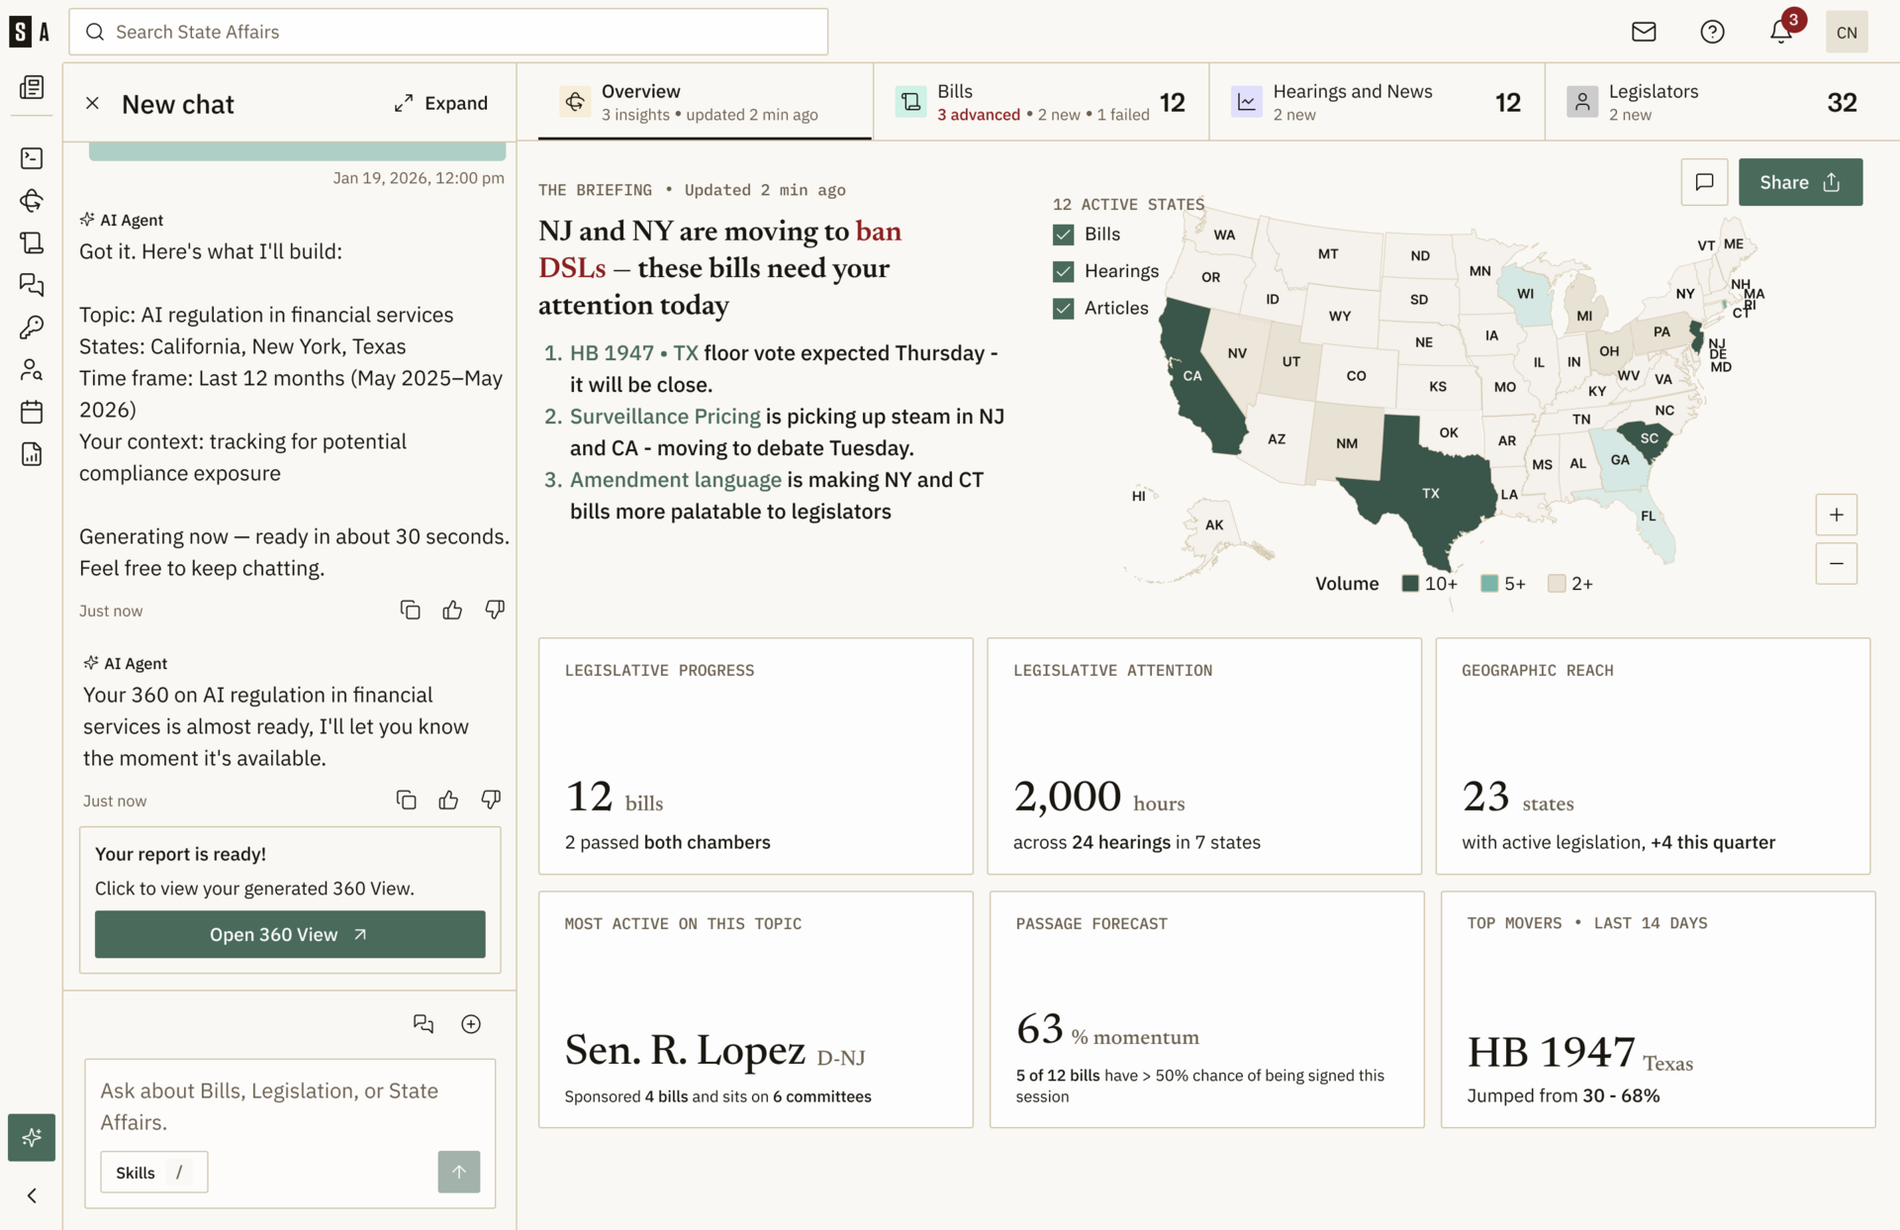
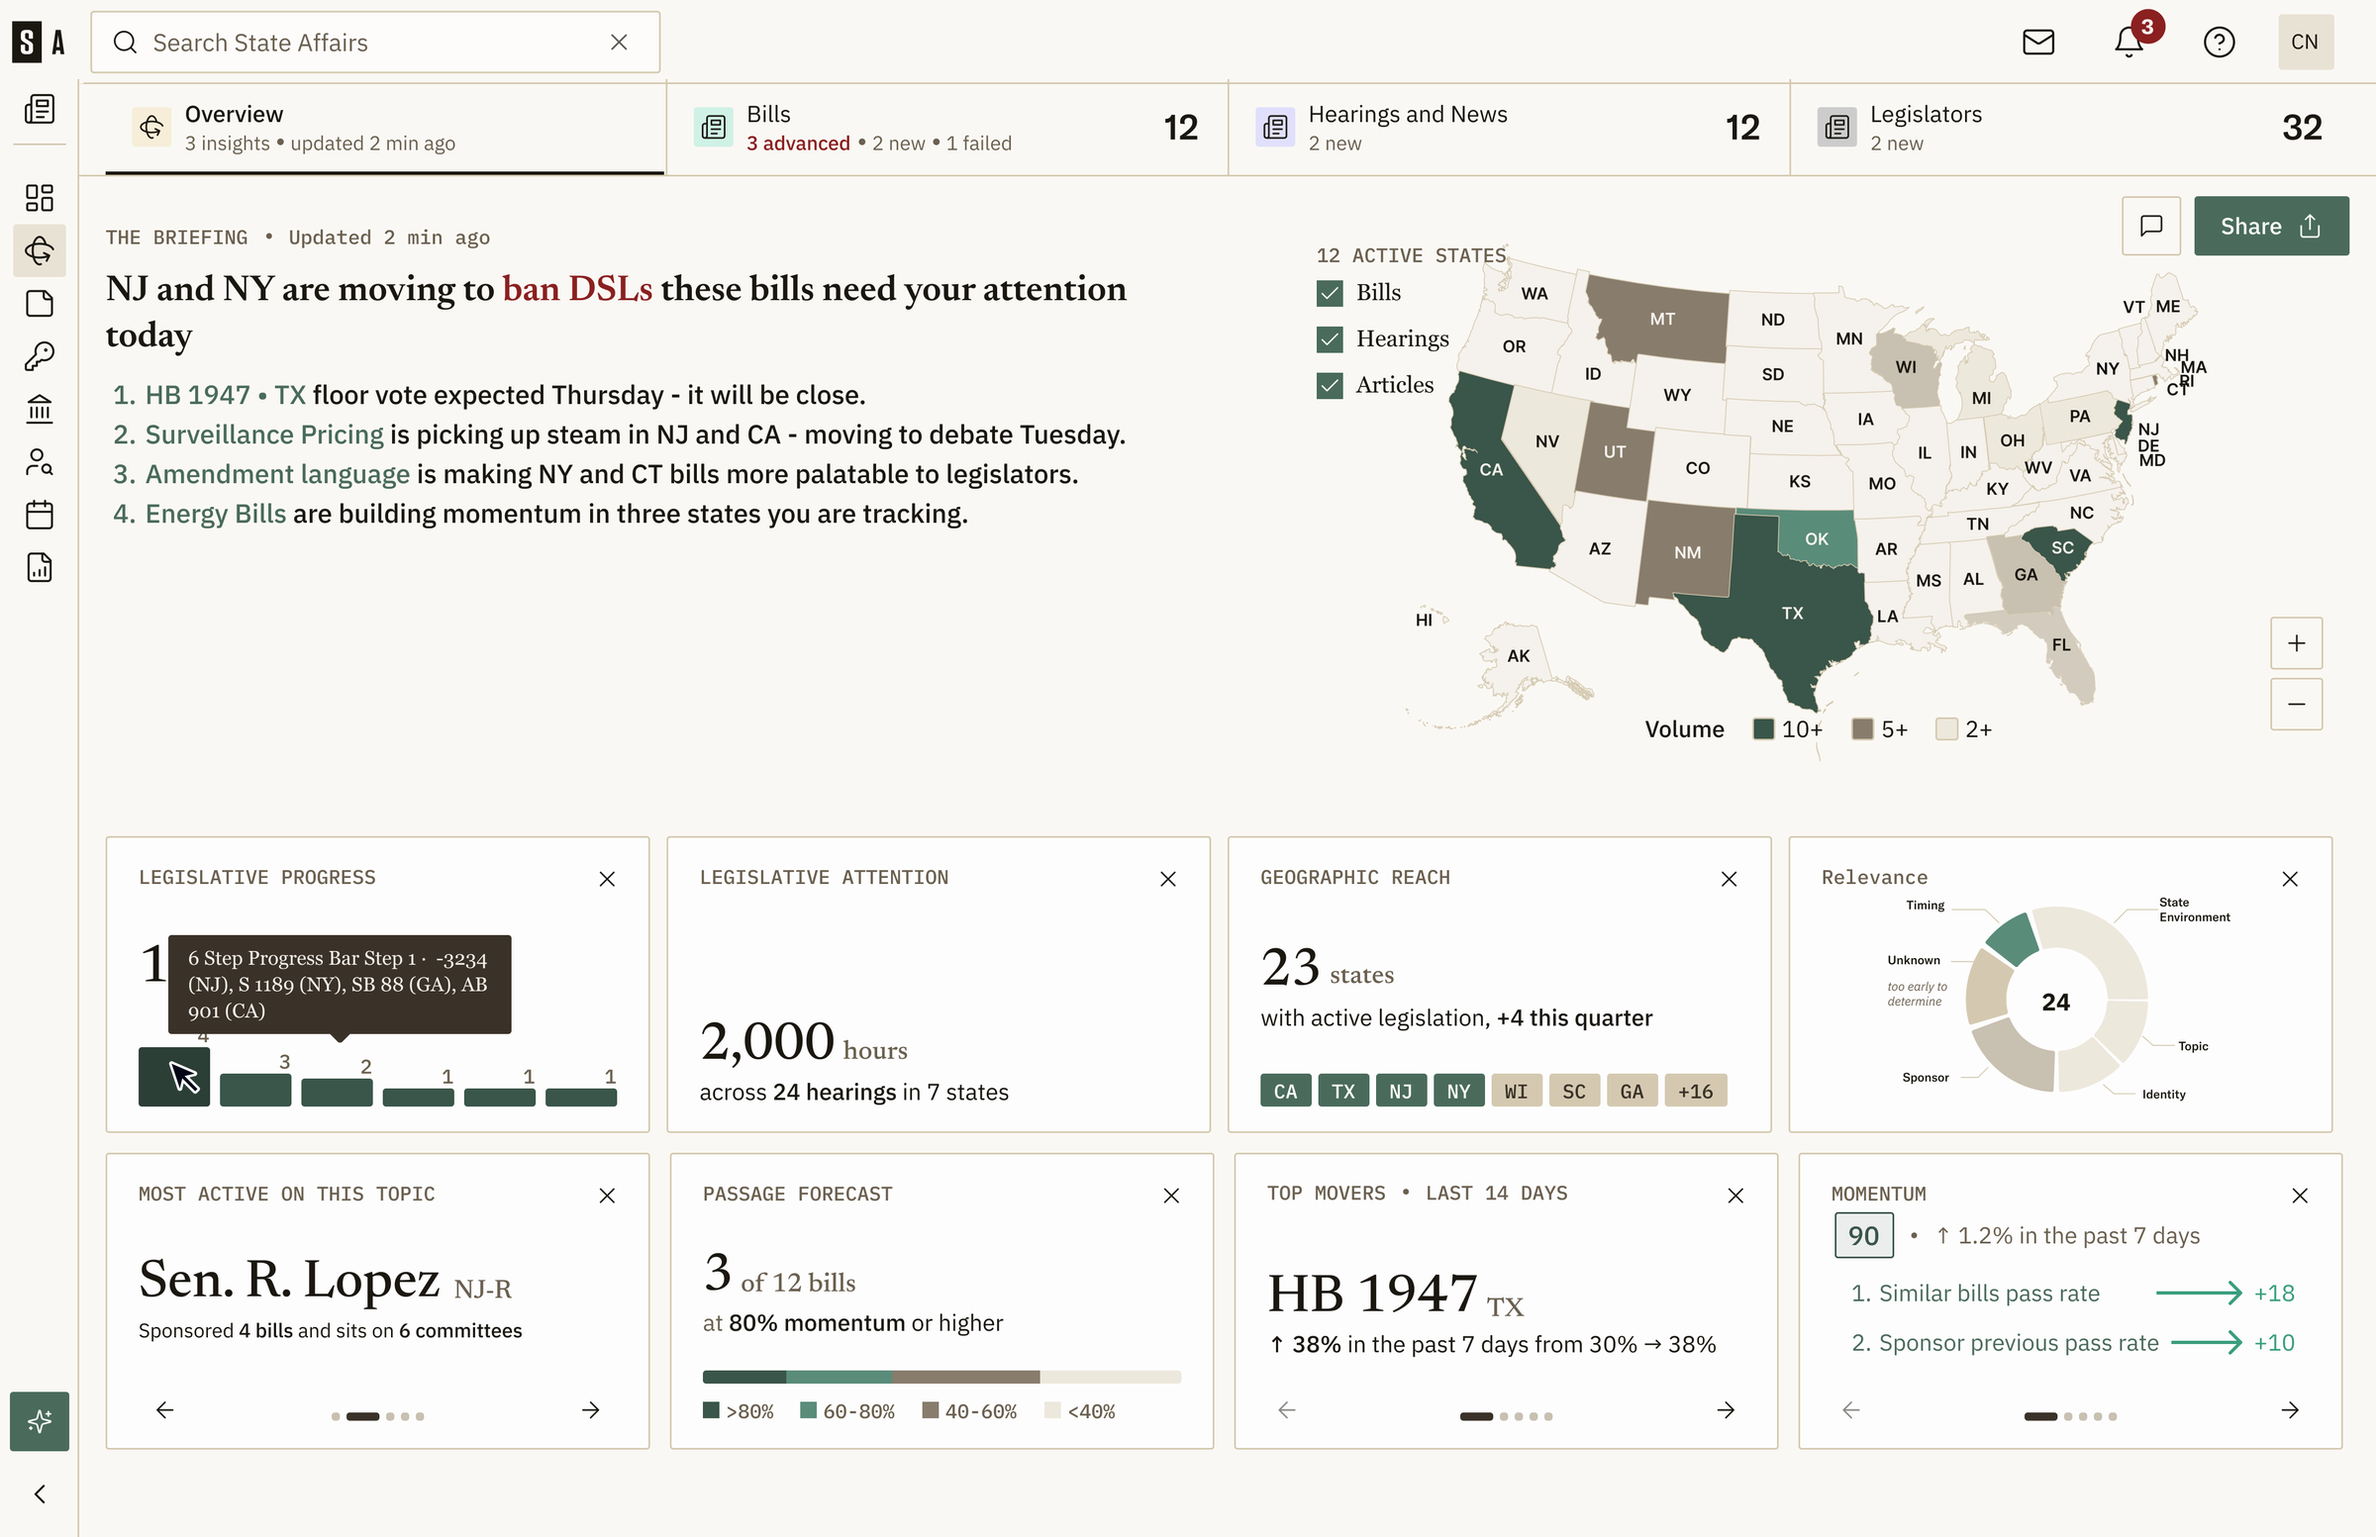
State Affairs: updated 360 overview and bills table screens

diff --git a/app/work/state-affairs/page.tsx b/app/work/state-affairs/page.tsx
@@ -111,10 +111,10 @@ export default function StateAffairs() {
         </p>
         <CaseImage
           src="/work/sa-builder-entry.png"
-          alt="State Affairs bills page: the entry point where a user's intent starts as a structured, trackable query"
+          alt="State Affairs bills page for an Energy Bills group: a 360 View prompt, upcoming hearings and recent actions above a bill table with priority, position and tracking lists"
           caption="The entry point: intent starts as a structured query on the bills page"
-          width={1600}
-          height={1091}
+          width={2400}
+          height={1554}
         />
         <CaseImage
           src="/work/sa-builder-review.png"
@@ -172,7 +172,9 @@ export default function StateAffairs() {
         />
         <CaseImage
           src="/work/sa-360-overview.png"
-          alt="AI Chat generating a 360° View: briefing, active-states map, momentum and forecast in one surface"
+          alt="360° View overview: a briefing of what needs attention today, an active-states map, and insight cards for progress, attention, reach, relevance, momentum and passage forecast"
+          width={2400}
+          height={1553}
           caption="Generate 360° View: a click on any update routes the analyst to that exact data point"
         />
       </Section>

diff --git a/lib/projects.ts b/lib/projects.ts
@@ -18,7 +18,7 @@ export const work: IndexItem[] = [
     gallery: [
       { src: "/work/sa-agent-laptop.jpg", alt: "The State Affairs AI agent answering a question about a bill" },
       { src: "/work/sa-ai-chat.png", alt: "AI Chat expanded: policy intelligence on demand, with cited answers over legislative data" },
-      { src: "/work/sa-360-overview.png", alt: "AI Chat generating a 360° View: briefing, active-states map, momentum and forecast in one surface" },
+      { src: "/work/sa-360-overview.png", alt: "360° View overview: a briefing, an active-states map, and insight cards for momentum and passage forecast" },
       { src: "/work/sa-whats-changed.png", alt: "What's Changed panel: the most important items since your last visit, ranked by priority" },
     ],
   },
